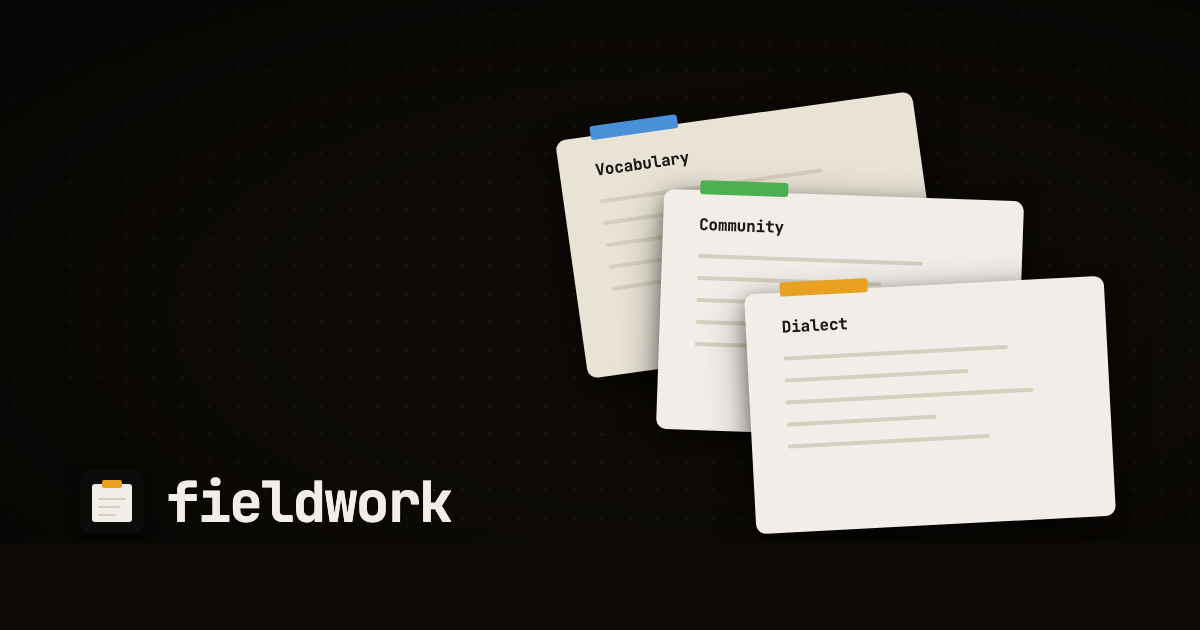
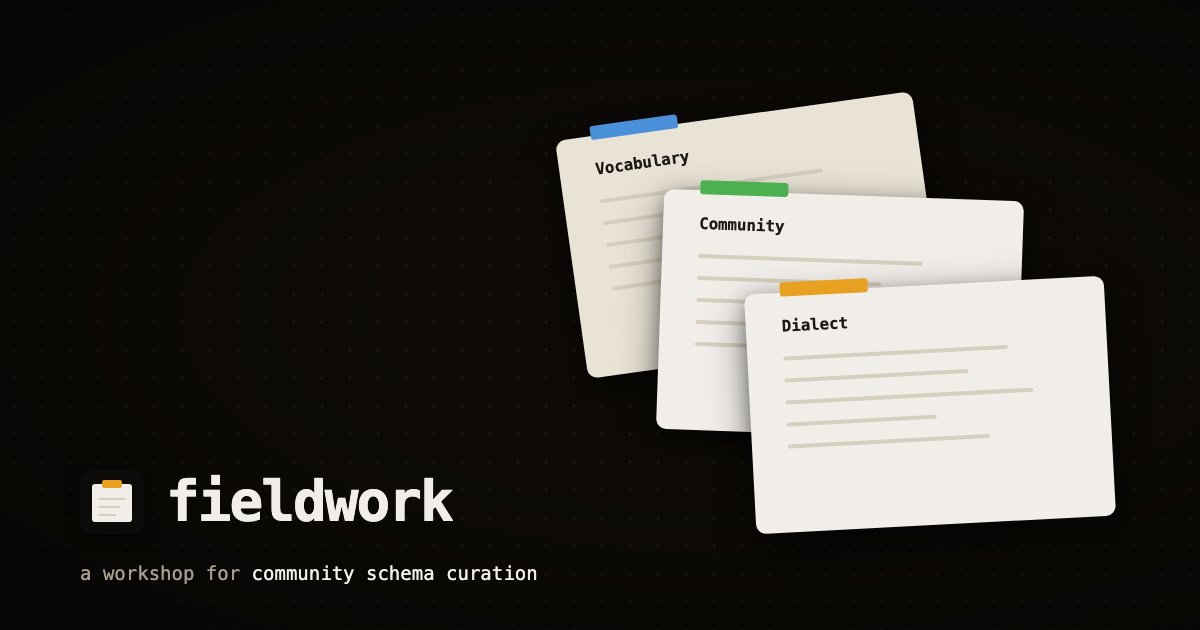
chore(release): 0.1.2 + re-render og without bottom clipping
Headless Chrome's --window-size=1200,630 was rendering the body but
clipping the bottom ~70px before --screenshot captured the viewport,
which dropped the 'a workshop for community schema curation' tagline.
Render at 1200x720 and crop to 1200x630 from the top via imagemagick.

diff --git a/CHANGELOG.md b/CHANGELOG.md
@@ -9,6 +9,13 @@ workspace API, and the import / export contract are all in scope.
 
 ## [Unreleased]
 
+## [0.1.2] - 2026-04-27
+
+### Fixed
+
+- Live deploy still failed after 0.1.1: passing `import panprotoGlue from "@panproto-glue"` to `Panproto.init()` handed in the *default export* (the wasm-bindgen init function) instead of the namespace object. The package's `loadWasm` saw an input that wasn't a glue module, fell into its URL-import branch, and threw "Failed to construct 'URL': Invalid URL" because `String(initFn)` is not a URL. Switch to `import * as panprotoGlue` so the namespace (with `default` = init fn plus the named Rust-fn exports) reaches `Panproto.init()` and matches `WasmGlueModule` at runtime.
+- Re-render `og.png` so the "a workshop for community schema curation" tagline is visible. Headless Chrome's `--window-size=1200,630` was clipping the bottom ~70px below the wordmark; render at 1200x720 and crop to 1200x630 from the top with imagemagick.
+
 ## [0.1.1] - 2026-04-27
 
 ### Fixed
